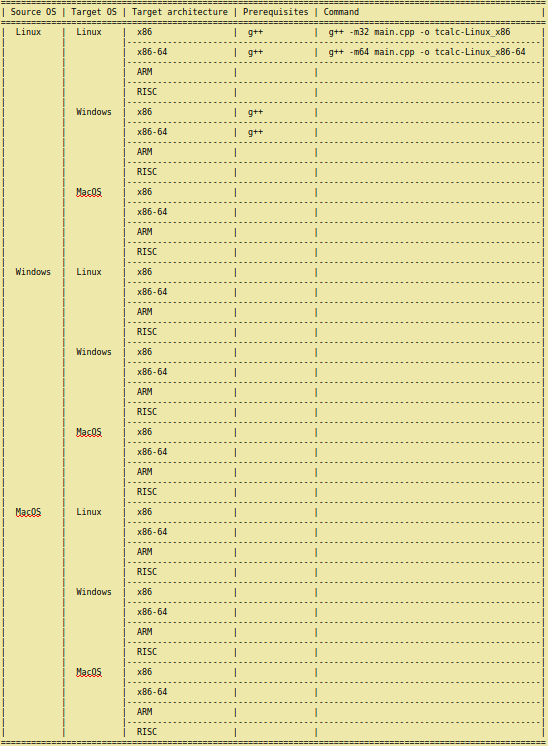
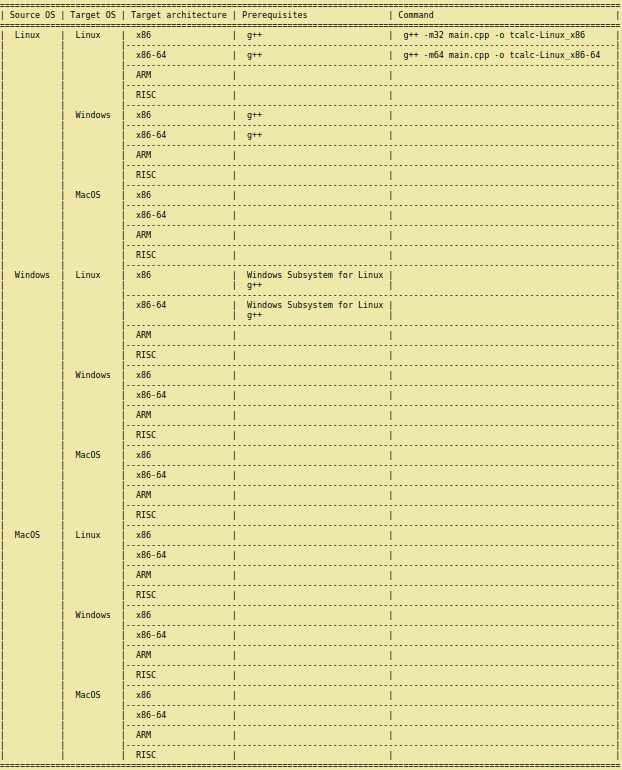
Changed compiling table

diff --git a/docs/README.md b/docs/README.md
@@ -6,84 +6,86 @@ This program is in stable currently as all known bugs fixed (report any as an is
 Instead of compiling you can download a pre-made binaries from /binaries.
 If you don't know what instruction set your computer used download the corresponding x86 file for your OS.
 
-### Compiling:
+### Compiling
 
 <!--
-============================================================================================================  
-| Source OS | Target OS | Target architecture | Prerequisites | Command                                    |  
-============================================================================================================  
-|  Linux    |  Linux    |  x86                |  g++          |  g++ -m32 main.cpp -o tcalc-Linux_x86      |  
-|           |           |----------------------------------------------------------------------------------|  
-|           |           |  x86-64             |  g++          |  g++ -m64 main.cpp -o tcalc-Linux_x86-64   |  
-|           |           |----------------------------------------------------------------------------------|  
-|           |           |  ARM                |               |                                            |  
-|           |           |----------------------------------------------------------------------------------|  
-|           |           |  RISC               |               |                                            |  
-|           |           |----------------------------------------------------------------------------------|  
-|           |  Windows  |  x86                |  g++          |                                            |  
-|           |           |----------------------------------------------------------------------------------|  
-|           |           |  x86-64             |  g++          |                                            |  
-|           |           |----------------------------------------------------------------------------------|  
-|           |           |  ARM                |               |                                            |  
-|           |           |----------------------------------------------------------------------------------|  
-|           |           |  RISC               |               |                                            |  
-|           |           |----------------------------------------------------------------------------------|  
-|           |  MacOS    |  x86                |               |                                            |  
-|           |           |----------------------------------------------------------------------------------|  
-|           |           |  x86-64             |               |                                            |  
-|           |           |----------------------------------------------------------------------------------|  
-|           |           |  ARM                |               |                                            |  
-|           |           |----------------------------------------------------------------------------------|  
-|           |           |  RISC               |               |                                            |  
-|           |           |----------------------------------------------------------------------------------|  
-|  Windows  |  Linux    |  x86                |               |                                            |  
-|           |           |----------------------------------------------------------------------------------|  
-|           |           |  x86-64             |               |                                            |  
-|           |           |----------------------------------------------------------------------------------|  
-|           |           |  ARM                |               |                                            |  
-|           |           |----------------------------------------------------------------------------------|  
-|           |           |  RISC               |               |                                            |  
-|           |           |----------------------------------------------------------------------------------|  
-|           |  Windows  |  x86                |               |                                            |  
-|           |           |----------------------------------------------------------------------------------|  
-|           |           |  x86-64             |               |                                            |  
-|           |           |----------------------------------------------------------------------------------|  
-|           |           |  ARM                |               |                                            |  
-|           |           |----------------------------------------------------------------------------------|  
-|           |           |  RISC               |               |                                            |  
-|           |           |----------------------------------------------------------------------------------|  
-|           |  MacOS    |  x86                |               |                                            |  
-|           |           |----------------------------------------------------------------------------------|  
-|           |           |  x86-64             |               |                                            |  
-|           |           |----------------------------------------------------------------------------------|  
-|           |           |  ARM                |               |                                            |  
-|           |           |----------------------------------------------------------------------------------|  
-|           |           |  RISC               |               |                                            |  
-|           |           |----------------------------------------------------------------------------------|  
-|  MacOS    |  Linux    |  x86                |               |                                            |  
-|           |           |----------------------------------------------------------------------------------|  
-|           |           |  x86-64             |               |                                            |  
-|           |           |----------------------------------------------------------------------------------|  
-|           |           |  ARM                |               |                                            |  
-|           |           |----------------------------------------------------------------------------------|  
-|           |           |  RISC               |               |                                            |  
-|           |           |----------------------------------------------------------------------------------|  
-|           |  Windows  |  x86                |               |                                            |  
-|           |           |----------------------------------------------------------------------------------|  
-|           |           |  x86-64             |               |                                            |  
-|           |           |----------------------------------------------------------------------------------|  
-|           |           |  ARM                |               |                                            |  
-|           |           |----------------------------------------------------------------------------------|  
-|           |           |  RISC               |               |                                            |  
-|           |           |----------------------------------------------------------------------------------|  
-|           |  MacOS    |  x86                |               |                                            |  
-|           |           |----------------------------------------------------------------------------------|  
-|           |           |  x86-64             |               |                                            |  
-|           |           |----------------------------------------------------------------------------------|  
-|           |           |  ARM                |               |                                            |  
-|           |           |----------------------------------------------------------------------------------|  
-|           |           |  RISC               |               |                                            |  
-============================================================================================================  
+===========================================================================================================================
+| Source OS | Target OS | Target architecture | Prerequisites                | Command                                    |
+===========================================================================================================================
+|  Linux    |  Linux    |  x86                |  g++                         |  g++ -m32 main.cpp -o tcalc-Linux_x86      |
+|           |           |-------------------------------------------------------------------------------------------------|
+|           |           |  x86-64             |  g++                         |  g++ -m64 main.cpp -o tcalc-Linux_x86-64   |
+|           |           |-------------------------------------------------------------------------------------------------|
+|           |           |  ARM                |                              |                                            |
+|           |           |-------------------------------------------------------------------------------------------------|
+|           |           |  RISC               |                              |                                            |
+|           |           |-------------------------------------------------------------------------------------------------|
+|           |  Windows  |  x86                |  g++                         |                                            |
+|           |           |-------------------------------------------------------------------------------------------------|
+|           |           |  x86-64             |  g++                         |                                            |
+|           |           |-------------------------------------------------------------------------------------------------|
+|           |           |  ARM                |                              |                                            |
+|           |           |-------------------------------------------------------------------------------------------------|
+|           |           |  RISC               |                              |                                            |
+|           |           |-------------------------------------------------------------------------------------------------|
+|           |  MacOS    |  x86                |                              |                                            |
+|           |           |-------------------------------------------------------------------------------------------------|
+|           |           |  x86-64             |                              |                                            |
+|           |           |-------------------------------------------------------------------------------------------------|
+|           |           |  ARM                |                              |                                            |
+|           |           |-------------------------------------------------------------------------------------------------|
+|           |           |  RISC               |                              |                                            |
+|           |           |-------------------------------------------------------------------------------------------------|
+|  Windows  |  Linux    |  x86                |  Windows Subsystem for Linux |                                            |
+|           |           |                     |  g++                         |                                            |
+|           |           |-------------------------------------------------------------------------------------------------|
+|           |           |  x86-64             |  Windows Subsystem for Linux |                                            |
+|           |           |                     |  g++                         |                                            |
+|           |           |-------------------------------------------------------------------------------------------------|
+|           |           |  ARM                |                              |                                            |
+|           |           |-------------------------------------------------------------------------------------------------|
+|           |           |  RISC               |                              |                                            |
+|           |           |-------------------------------------------------------------------------------------------------|
+|           |  Windows  |  x86                |                              |                                            |
+|           |           |-------------------------------------------------------------------------------------------------|
+|           |           |  x86-64             |                              |                                            |
+|           |           |-------------------------------------------------------------------------------------------------|
+|           |           |  ARM                |                              |                                            |
+|           |           |-------------------------------------------------------------------------------------------------|
+|           |           |  RISC               |                              |                                            |
+|           |           |-------------------------------------------------------------------------------------------------|
+|           |  MacOS    |  x86                |                              |                                            |
+|           |           |-------------------------------------------------------------------------------------------------|
+|           |           |  x86-64             |                              |                                            |
+|           |           |-------------------------------------------------------------------------------------------------|
+|           |           |  ARM                |                              |                                            |
+|           |           |-------------------------------------------------------------------------------------------------|
+|           |           |  RISC               |                              |                                            |
+|           |           |-------------------------------------------------------------------------------------------------|
+|  MacOS    |  Linux    |  x86                |                              |                                            |
+|           |           |-------------------------------------------------------------------------------------------------|
+|           |           |  x86-64             |                              |                                            |
+|           |           |-------------------------------------------------------------------------------------------------|
+|           |           |  ARM                |                              |                                            |
+|           |           |-------------------------------------------------------------------------------------------------|
+|           |           |  RISC               |                              |                                            |
+|           |           |-------------------------------------------------------------------------------------------------|
+|           |  Windows  |  x86                |                              |                                            |
+|           |           |-------------------------------------------------------------------------------------------------|
+|           |           |  x86-64             |                              |                                            |
+|           |           |-------------------------------------------------------------------------------------------------|
+|           |           |  ARM                |                              |                                            |
+|           |           |-------------------------------------------------------------------------------------------------|
+|           |           |  RISC               |                              |                                            |
+|           |           |-------------------------------------------------------------------------------------------------|
+|           |  MacOS    |  x86                |                              |                                            |
+|           |           |-------------------------------------------------------------------------------------------------|
+|           |           |  x86-64             |                              |                                            |
+|           |           |-------------------------------------------------------------------------------------------------|
+|           |           |  ARM                |                              |                                            |
+|           |           |-------------------------------------------------------------------------------------------------|
+|           |           |  RISC               |                              |                                            |
+===========================================================================================================================
 -->
 
 ![Compiling](https://github.com/Kepler7894i/tcalc/blob/dev/docs/compiling.png?raw=true)
